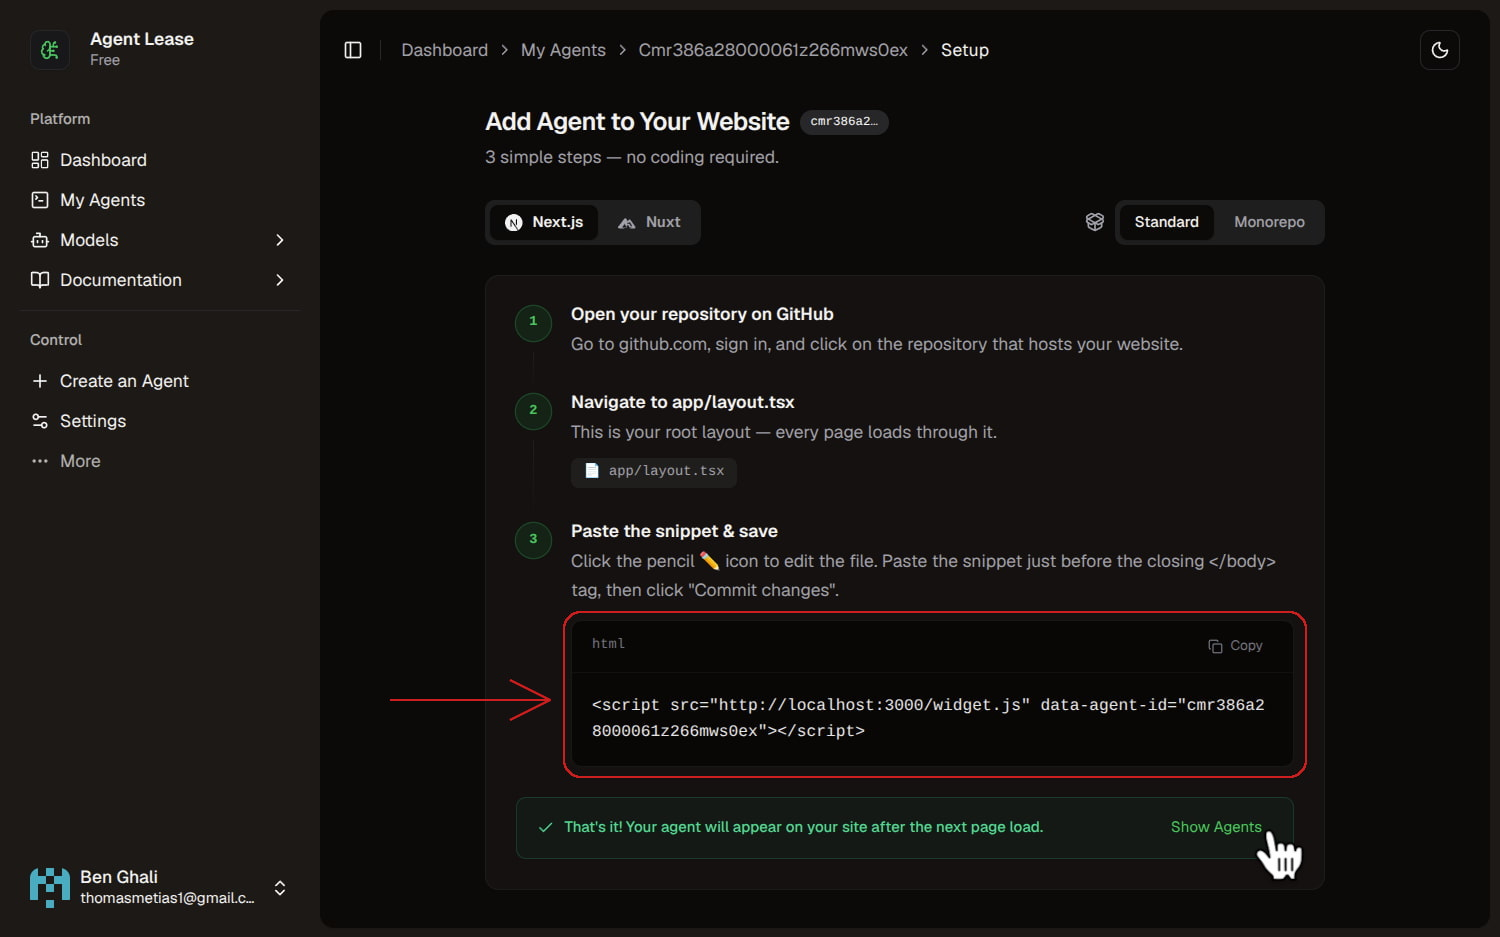
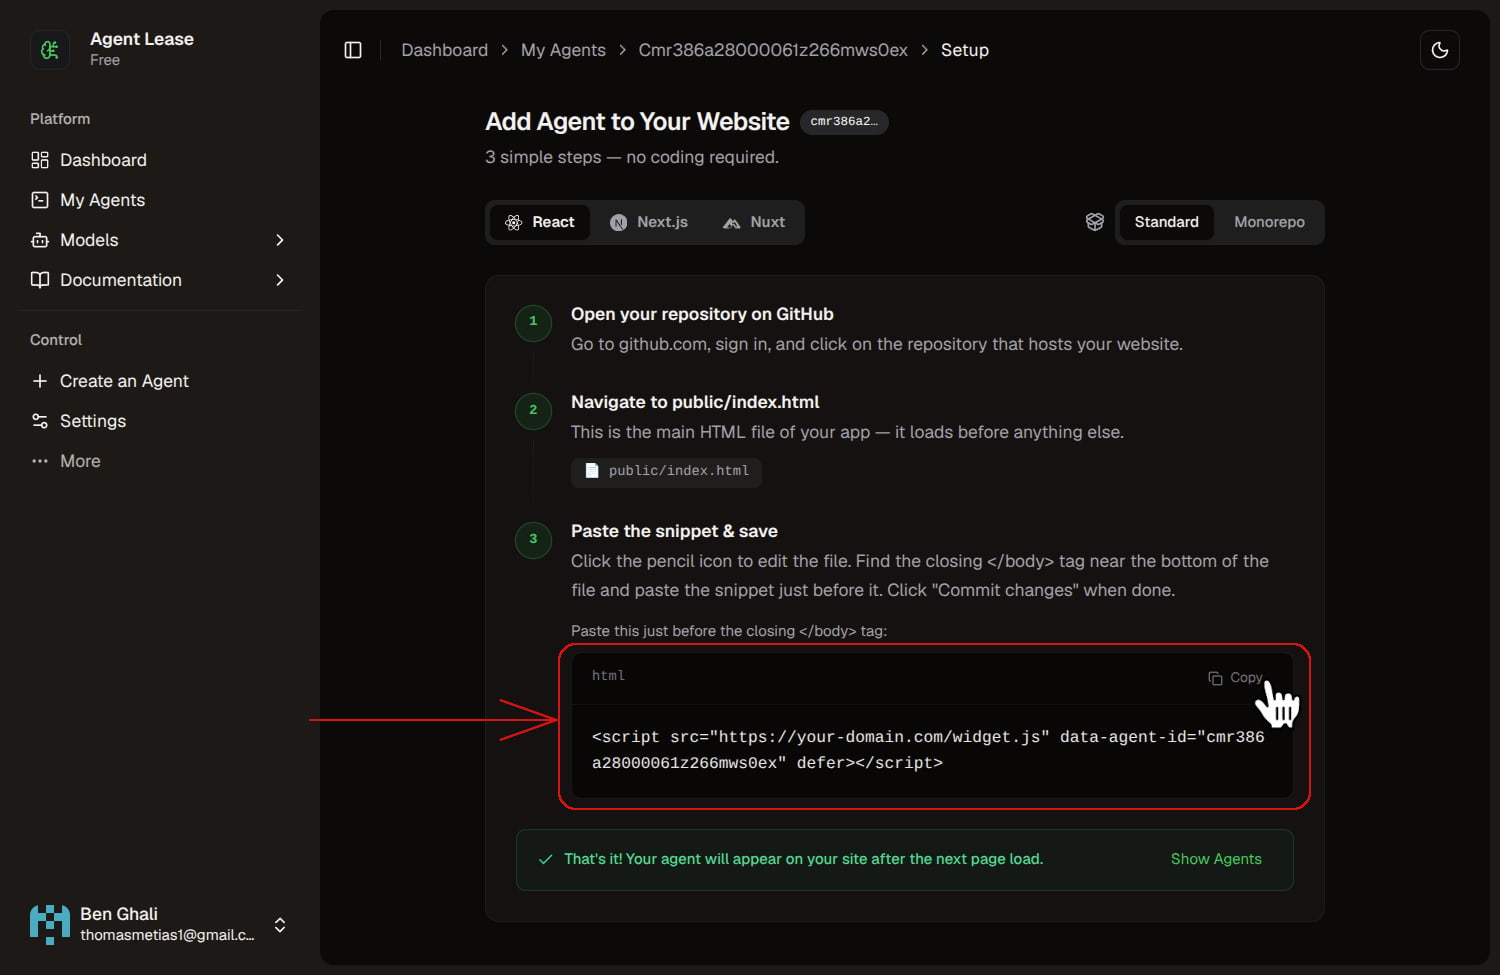
docs: add payments sections and restructuring
- Refactor the docs to have informal tone.
- Refactor images to appear better for mobile devices screens.
- Add table of contents.
- Add features table at the end.
- Add a Getting started section, so that other devs can run it and test it locally on their machines.

diff --git a/apps/api/src/chat/chat.guard.ts b/apps/api/src/chat/chat.guard.ts
@@ -11,6 +11,9 @@ import { Ratelimit } from '@upstash/ratelimit';
 import { WsException } from '@nestjs/websockets';
 import { PLAN_LIMITS, PlanType } from '@repo/common';
 
+/**
+ * Guard to protect against too many requests per minute
+ */
 @Injectable()
 export class WsRateLimitGuard implements CanActivate {
   private readonly logger = new Logger(WsRateLimitGuard.name);
@@ -38,7 +41,9 @@ export class WsRateLimitGuard implements CanActivate {
     const { success } = await this.ratelimit.limit(identifier);
 
     if (!success) {
-      this.logger.warn(`Rate limit exceeded for agent: ${agent}, IP: ${safeIp}`);
+      this.logger.warn(
+        `Rate limit exceeded for agent: ${agent}, IP: ${safeIp}`,
+      );
       throw new WsException('Too many requests. Please try again later.');
     }
 
@@ -65,16 +70,24 @@ export class WsTokenQuotaGuard implements CanActivate {
     );
 
     if (data === null) {
-      this.logger.error(`User data doesn't exist in redis for ownerId: ${ownerId}`);
-      throw new WsException('An error was encountered. Please try again later.');
+      this.logger.error(
+        `User data doesn't exist in redis for ownerId: ${ownerId}`,
+      );
+      throw new WsException(
+        'An error was encountered. Please try again later.',
+      );
     }
 
     const userPlan = data.plan as PlanType;
     const userUsage = Number(data.usage);
 
-    if (!userPlan || !userUsage) {
-      this.logger.error(`User's plan or usage doesn't exist in redis for ownerId: ${ownerId}`);
-      throw new WsException('An error was encountered. Please try again later.');
+    if (!userPlan || userUsage == null) {
+      this.logger.error(
+        `User's plan or usage doesn't exist in redis for ownerId: ${ownerId}`,
+      );
+      throw new WsException(
+        'An error was encountered. Please try again later.',
+      );
     }
 
     const userTokenLimit = PLAN_LIMITS[userPlan].tokensLimit;
@@ -82,7 +95,9 @@ export class WsTokenQuotaGuard implements CanActivate {
     client.data.ownerPlan = userPlan;
 
     if (userUsage >= userTokenLimit) {
-      this.logger.warn(`Token quota exceeded for ownerId: ${ownerId} (Usage: ${userUsage}, Limit: ${userTokenLimit})`);
+      this.logger.warn(
+        `Token quota exceeded for ownerId: ${ownerId} (Usage: ${userUsage}, Limit: ${userTokenLimit})`,
+      );
       throw new WsException(
         'This chatbot is temporarily unavailable as it has reached its usage limit. Please report this issue to the website administrator.',
       );

diff --git a/apps/web/features/dashboard-layout/components/nav-user.tsx b/apps/web/features/dashboard-layout/components/nav-user.tsx
@@ -82,7 +82,7 @@ export function NavUser({ user }: { user: UserInfo }) {
               <DropdownMenuItem asChild>
                 <Link href="/pricing">
                   <SparklesIcon />
-                  Upgrade to Pro
+                  Upgrade to Premium
                 </Link>
               </DropdownMenuItem>
             </DropdownMenuGroup>

diff --git a/apps/web/features/shared/pricing/pricing-data.tsx b/apps/web/features/shared/pricing/pricing-data.tsx
@@ -50,7 +50,7 @@ export const plans: PriceCardData[] = [
     description:
       'Advanced agent management and higher task limits for production usage.',
     isPopular: true,
-    buttonText: 'Upgrade to Pro',
+    buttonText: 'Upgrade to Premium',
     features: [
       {
         content: '10 Active AI Agents',

diff --git a/README.md b/README.md
@@ -8,18 +8,9 @@
 
 # Agent Lease - Full-Stack AI SaaS Platform
 
-## Video placeholder
+**[🔴 Live Demo](placeholder-url)** | **[▶ Watch the 90-Second Walkthrough](#video-placeholder)**
 
-**Agent Lease** is a production-ready SaaS platform that allows users to deploy customizable AI chat agents to any website in **under 3 minutes**. It pairs a frictionless, no-code integration widget with a robust, scalable backend—featuring **real-time WebSockets**, **automated Stripe billing**, and **comprehensive usage analytics** for users and **advanced global analytics** for admins.
-
-<div align="center">
-
-# [Live Demo <img src="https://www.svgrepo.com/show/450126/external-link.svg" width="20" height="20" />](placeholder-url)
-</div>
-
-<a name="toc"></a> <!-- Table of Contents reference -->
-
-## Table of Contents placeholder
+**Agent Lease** is a production-ready SaaS platform that allows users to deploy customizable AI chat agents to any website in **under 3 minutes**. It pairs a frictionless, no-code integration widget with a robust, scalable backend—featuring **real-time WebSockets**, **automated Stripe billing**, and **comprehensive analytics**. Engineered as a Turborepo monorepo, it demonstrates strict end-to-end type safety, modern infrastructure, and robust enterprise-grade features.
 
 ## Architecture & Data Flow
 
@@ -87,81 +78,166 @@ flowchart LR
     WebhookSvc -->|Update Subs| PrismaDB
 ```
 
-## Core Features
-### 1. Onboarding
-Modern sign in/up UI using **Tailwind CSS** & **Shadcn UI**, backed by **Supabase Auth** secure session management.
+<a name="toc"></a>
+## Table of Contents
+
+- [Agent Lease - Full-Stack AI SaaS Platform](#agent-lease---full-stack-ai-saas-platform)
+  - [Architecture \& Data Flow](#architecture--data-flow)
+  - [Table of Contents](#table-of-contents)
+  - [User Journey Walkthrough](#user-journey-walkthrough)
+    - [1. Secure Authentication \& Agent Management](#1-secure-authentication--agent-management)
+    - [2. Frictionless Widget Integration](#2-frictionless-widget-integration)
+    - [3. Professional, Context-Aware AI Chat](#3-professional-context-aware-ai-chat)
+    - [4. Comprehensive User Analytics \& Monetization](#4-comprehensive-user-analytics--monetization)
+    - [5. Global Admin Console](#5-global-admin-console)
+  - [Engineering \& Infrastructure](#engineering--infrastructure)
+  - [Getting Started / Local Development](#getting-started--local-development)
+    - [1. Environment Configuration](#1-environment-configuration)
+    - [2. Installation \& Database Setup](#2-installation--database-setup)
+    - [3. Running the Ecosystem](#3-running-the-ecosystem)
+
+## User Journey Walkthrough
+
+### 1. Secure Authentication & Agent Management
+A new user's journey begins with a seamless onboarding experience backed by **Supabase Auth** and styled with **Tailwind CSS & Shadcn UI**. After signing in, the client is redirected to their dashboard where they can securely provision and configure a new AI agent. Strict `zod` validation enforces tier-based resource limits from the moment of creation.
 
 <div align="center">
-    <img src="docs/sign-up.jpg">
-    <small>User Signing up</small>
+    <br>
+    <img src="docs/sign-up.jpg" width="80%">
+    <br><small><i>1. The client registers for a new account.</i></small>
+    <br><br>
+    <img src="docs/create-agent.jpg" width="80%">
+    <br><small><i>2. The client provisions and configures their custom AI agent.</i></small>
+    <br><br>
+    <img src="docs/initial-user-dashboard.jpg" width="80%">
+    <br><small><i>3. The client views their dashboard. The agent has been added.</i></small>
 </div>
 
-<div align="right">
-  <a href="#toc"><b>⤴ Back to Contents</b></a>
-</div>
+> **Security Note:** Agents are cryptographically bound to specific whitelisted domains to prevent unauthorized cross-site embedding.
 
-### 2. Dashboard
-Built using **Shadcn UI + Tailwind CSS** as well.
+<div align="right"><a href="#toc"><b>⤴ Back to Contents</b></a></div>
 
-Once signed in, the user is **redirected to the dashboard** where he can create and manage his AI agents (empty so far, but we'll create one next).
+### 2. Frictionless Widget Integration
+Integration is designed for zero friction. Once the agent is provisioned, the client receives framework-agnostic setup instructions. By pasting a single `<script>` tag, they instantly deploy a fully functional, responsive chat bubble to their live website.
 
 <div align="center">
-    <div><img src="docs/no-agents.jpg" ></div>
-    <small>Dashboard > My Agents (empty state)</small>
+    <br>
+    <img src="docs/agent-setup.jpg" width="80%">
+    <br><small><i>4. The client receives a single-line embed script.</i></small>
+    <br><br>
+    <img src="docs/code-embed.png" width="80%">
+    <br><small><i>5. The client adds the script to their website's HTML.</i></small>
+    <br><br>
+    <img src="docs/bubble-appear.jpg" width="80%">
+    <br><small><i>6. The live AI chat widget immediately appears on their platform.</i></small>
 </div>
 
-<div align="right">
-  <a href="#toc"><b>⤴ Back to Contents</b></a>
-</div>
+<div align="right"><a href="#toc"><b>⤴ Back to Contents</b></a></div>
 
-### 3. Create Agent
-Create & configure a custom AI agent Through a secure form. `zod` validation used to **ensure limits met**.
+### 3. Professional, Context-Aware AI Chat
+As visitors interact with the widget, the conversational engine utilizes **WebSockets** for sub-second streaming. The AI is sandboxed via system prompts to exclusively discuss authorized company data, maintaining a professional tone while strictly refusing unrelated queries.
 
 <div align="center">
-    <img src="docs/create-agent.jpg">
-    <small>Creating an agent</small>
+    <br>
+    <img src="docs/7.2-unrelated-question.png" width="50%">
+    <br><small><i>7. The AI strictly enforces boundary guardrails on off-topic questions.</i></small>
+    <br><br>
+    <img src="docs/7.2-related-question.png" width="50%">
+    <br><small><i>8. The AI provides highly accurate, context-aware responses.</i></small>
+    <br><br>
+    <img src="docs/7.2-limit-reached.png" width="50%">
+    <br><small><i>9. Usage limits are dynamically enforced mid-conversation.</i></small>
 </div>
 
-> **Notes:**
-> - the agent created **only works with the provided domain and no other**; this is a security precaution to prevent being used on other websites without permission from the agent owner (the creator).
-> - Form is **secured against DDOS attacks and abuses** using rate limiting.
+> **Infrastructure:** Chats are highly responsive thanks to an **Upstash Redis** caching layer, with asynchronous persistence to **PostgreSQL** for long-term chat transcript review.
 
-<div align="right">
-  <a href="#toc"><b>⤴ Back to Contents</b></a>
-</div>
+<div align="right"><a href="#toc"><b>⤴ Back to Contents</b></a></div>
 
-### 4. Easy Integration
-After creation the user is redirected to a setup page, you can **easily integrate the agent** by following simple instructions given that is customizable to your stack and environment, non-coders can apply this easily from their github by following the guide.
+### 4. Comprehensive User Analytics & Monetization
+The client monitors their usage through a dynamic, heavily-cached Next.js dashboard detailing agent performance and token consumption. After eventually exhausting their free quota (as seen in the previous chat), they are seamlessly routed through a **Stripe Checkout** flow to upgrade their subscription tier.
 
 <div align="center">
-    <img src="docs/agent-setup.jpg">
-    <small>Agent Setup Guide</small>
+    <br>
+    <img src="docs/combined-payment.png" width="80%">
+    <br><small><i>10. After hitting their quota, the client upgrades to a Premium plan via a secure Stripe Checkout session.</i></small>
+    <br><br>
+    <img src="docs/dashboard-after-upgrade.jpg" width="80%">
+    <br><small><i>11. The dashboard instantly reflects the upgraded plan and massively increased token limits.</i></small>
 </div>
 
-<div align="right">
-  <a href="#toc"><b>⤴ Back to Contents</b></a>
-</div>
+<div align="right"><a href="#toc"><b>⤴ Back to Contents</b></a></div>
 
-## 5. Add the created Agent to your website
-Focused on ease of implementation, you only need to copy-paste the script line to you main `.html` file and you'll get your customized agent ready to go instantly!
+### 5. Global Admin Console
+Meanwhile, on the backend, platform owners have real-time visibility into critical business metrics. A dedicated admin portal tracks the new active subscription, MRR (Monthly Recurring Revenue), and global token consumption across all user tiers.
 
 <div align="center">
-    <img src="docs/agent-embed.png">
-    <small>Adding agent to your website</small>
+    <br>
+    <img src="docs/admin-dashboard-post-upgrade.jpg" width="80%">
+    <br><small><i>12. The admin portal registers the new revenue and subscription metrics in real-time.</i></small>
 </div>
 
-<div align="right">
-  <a href="#toc"><b>⤴ Back to Contents</b></a>
-</div>
+<div align="right"><a href="#toc"><b>⤴ Back to Contents</b></a></div>
 
-## 6. Control Agents Behavior if Needed
-Editing agents configuration can be easily done using the `My Agents` page in your dashboard.
-<div align="center">
-    <img src="docs/agent-edit.png">
-    <small>Editing agents configuration</small>
-</div>
+## Engineering & Infrastructure
 
-<div align="right">
-  <a href="#toc"><b>⤴ Back to Contents</b></a>
-</div>
+While the user journey highlights the frontend capabilities, the backend is engineered for horizontal scalability, data integrity, and strict type safety.
 
+| System                        | Technical Implementation                                                                                                    |
+| :---------------------------- | :-------------------------------------------------------------------------------------------------------------------------- |
+| **Monorepo Architecture**     | Turborepo workspace managing shared packages and independent builds across Next.js and NestJS.                              |
+| **Real-time Infrastructure**  | Scalable WebSocket layer using NestJS gateways, secured by custom JWT authentication guards.                                |
+| **Hybrid Data Persistence**   | Upstash Redis for sub-second, ephemeral chat caching and pub/sub, syncing to PostgreSQL for long-term storage.              |
+| **End-to-End Type Safety**    | Shared Zod validation schemas enforcing identical data contracts across the frontend UI, API routes, and Prisma ORM models. |
+| **Role-Based Access Control** | Supabase Auth integrated with custom backend middleware to strictly separate User and Admin data access.                    |
+| **Automated Testing**         | Jest-powered e2e testing infrastructure ensuring core API stability and billing webhook reliability. *(WIP)*                |
+
+---
+
+## Getting Started / Local Development
+
+To run this Turborepo ecosystem locally, ensure you have **Node.js** (v18+), **npm**, and a running **PostgreSQL** instance.
+
+### 1. Environment Configuration
+Copy the `.env.example` file to `.env` in the root directory:
+```bash
+cp .env.example .env
+```
+You will need to provision and configure keys for the following third-party services:
+- **Database**: PostgreSQL connection (`DATABASE_URL`, `DIRECT_URL`)
+- **Supabase**: Auth (`NEXT_PUBLIC_SUPABASE_URL`, `NEXT_PUBLIC_SUPABASE_ANON_KEY`, `SUPABASE_SERVICE_ROLE_KEY`)
+- **Stripe**: Billing (`STRIPE_SECRET_KEY`, `WEBHOOK_SECRET_KEY`)
+- **Groq**: Llama 3/3.3 API access (`GROQ_API_KEY`)
+- **Upstash Redis**: Serverless caching (`UPSTASH_REDIS_REST_URL`, `UPSTASH_REDIS_REST_TOKEN`)
+
+### 2. Installation & Database Setup
+Run the following commands from the root workspace:
+
+```bash
+# 1. Clone the repository
+git clone https://github.com/thomasghali/agent-lease.git
+cd agent-lease
+
+# 2. Install dependencies across the monorepo
+npm install
+
+# 3. Push the Prisma schema to your PostgreSQL database
+npm run db:push
+```
+
+### 3. Running the Ecosystem
+
+You need two terminal windows to run the full application locally, including the Stripe webhook listener.
+
+**Terminal 1: Start the Turborepo Server**
+```bash
+npm run dev
+```
+*(This starts the Next.js frontend on port 3000, NestJS API on 3001, and WebSocket gateway on 3002).*
+
+**Terminal 2: Forward Stripe Webhooks**
+Stripe must be able to hit your local server to process plan upgrades during checkout.
+```bash
+stripe login
+stripe listen --forward-to localhost:3001/webhook
+```
+*(Copy the generated webhook signing secret into your `.env` as `WEBHOOK_SECRET_KEY` and restart Terminal 1).*
